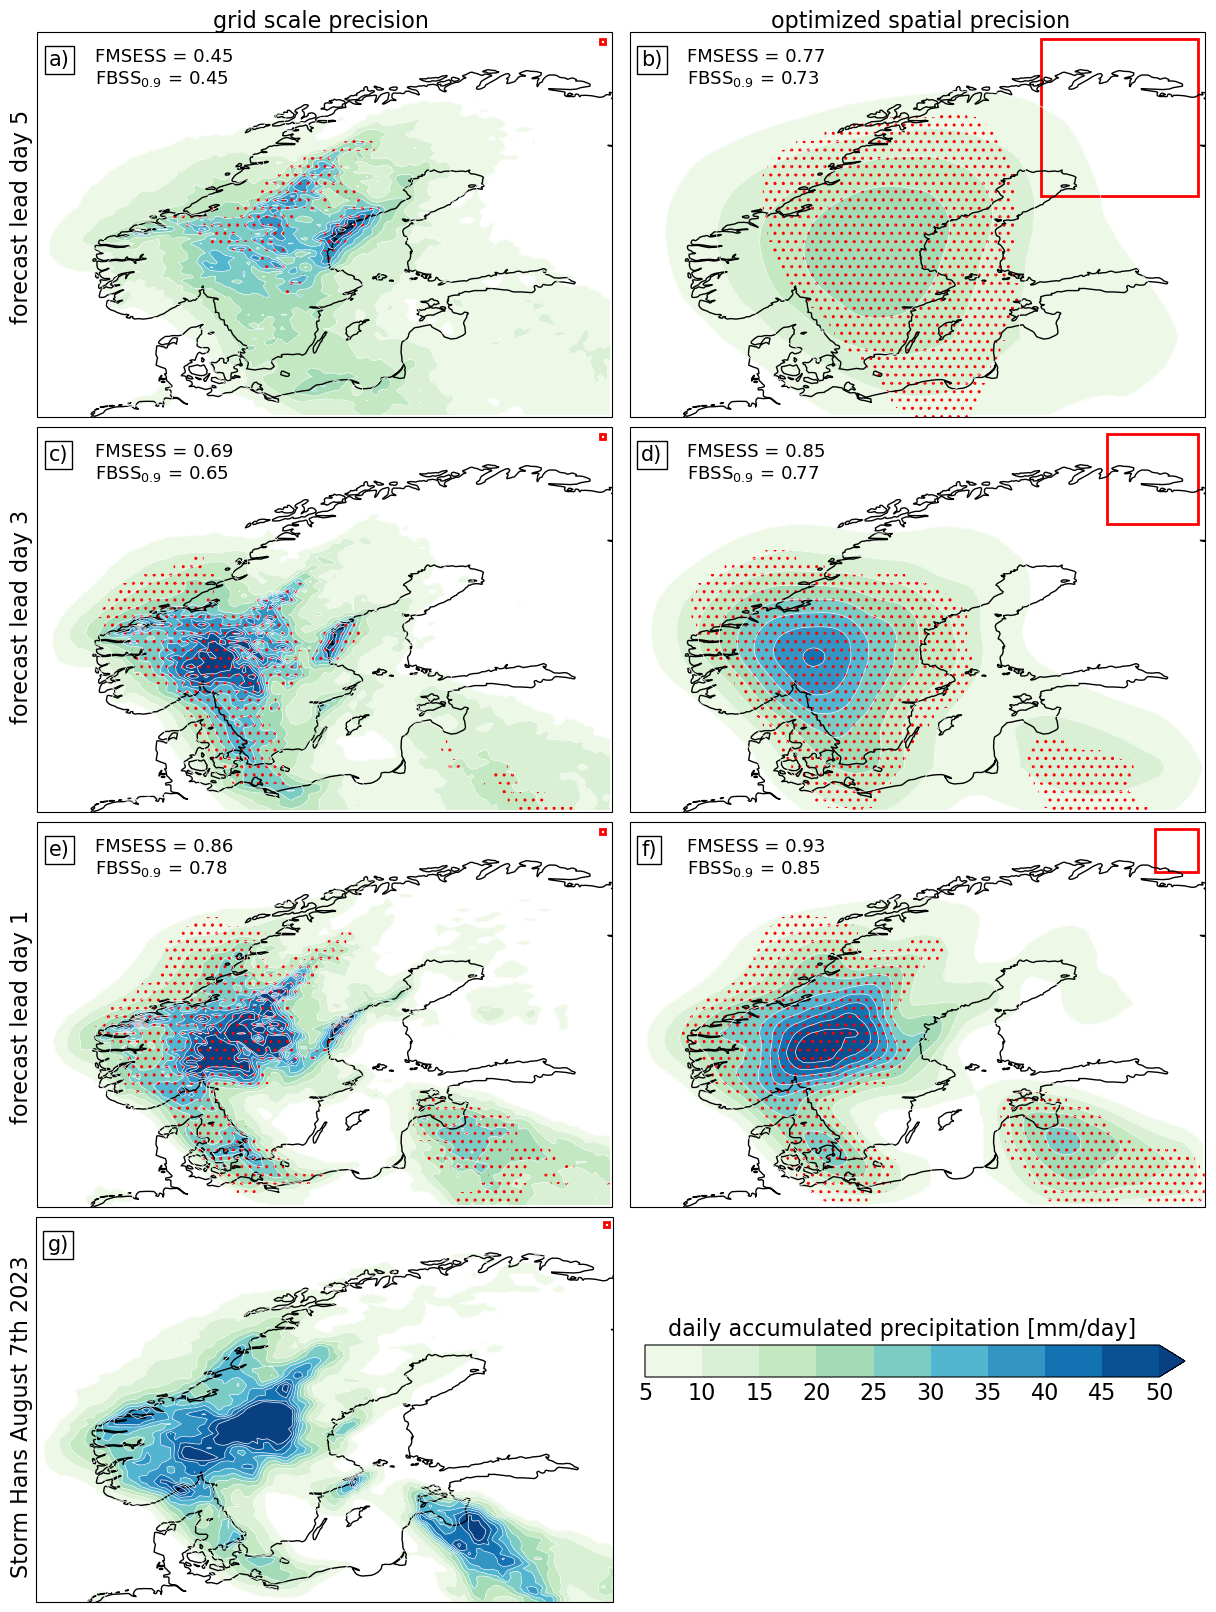
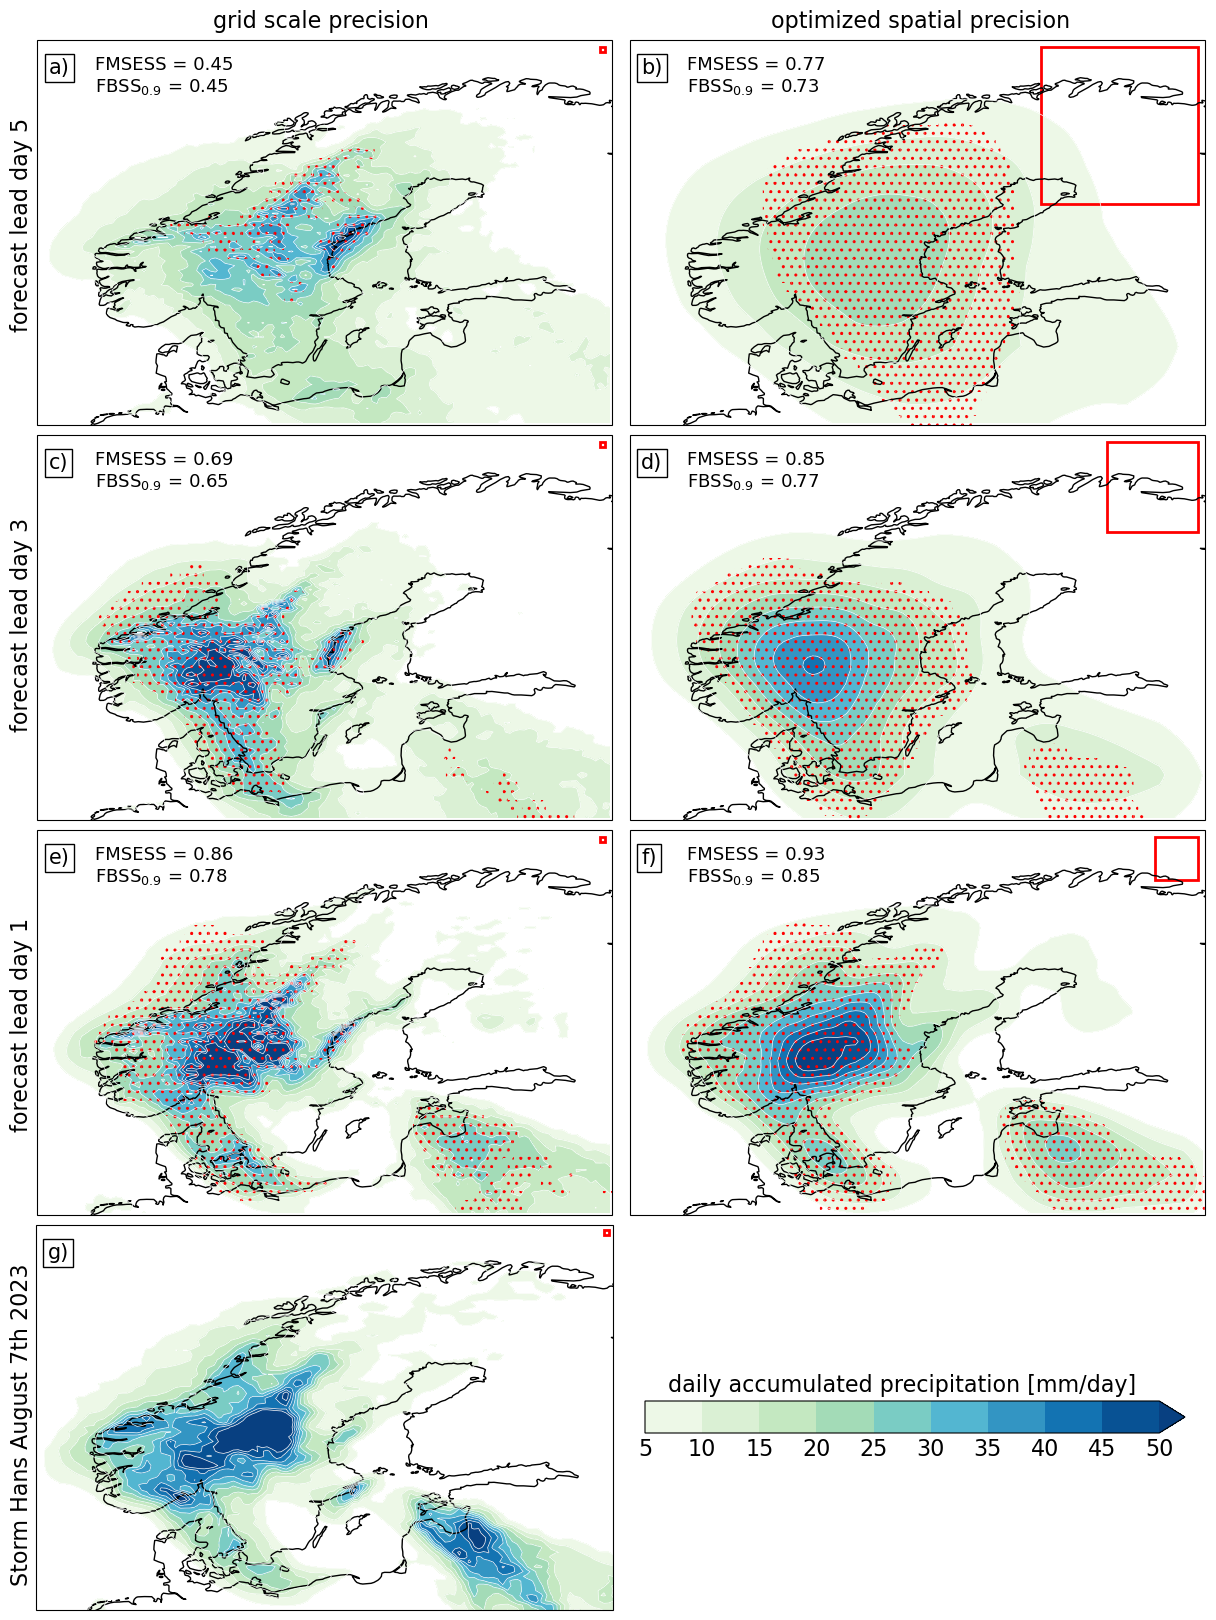
update

diff --git a/code/plot/test.py b/code/plot/test.py
@@ -134,7 +134,7 @@ x_positions = [(i + 0.5) / ncols for i in range(ncols)]  # Centered above each c
 top_labels = ['grid scale precision', 'optimized spatial precision']
 
 for x, label in zip(x_positions, top_labels):
-    fig.text(x, 0.99, label, fontsize=fontsize + 5, va='bottom', ha='center')  # Adjust y-position if needed
+    fig.text(x, 0.995, label, fontsize=fontsize + 5, va='bottom', ha='center')  # Adjust y-position if needed
     
 plt.tight_layout()
 
